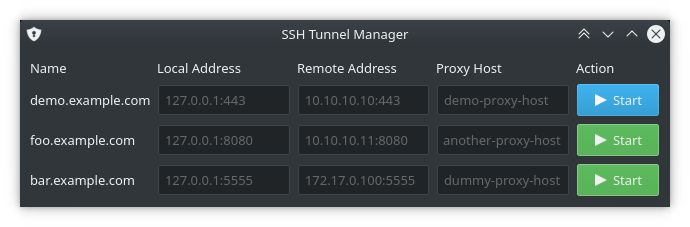
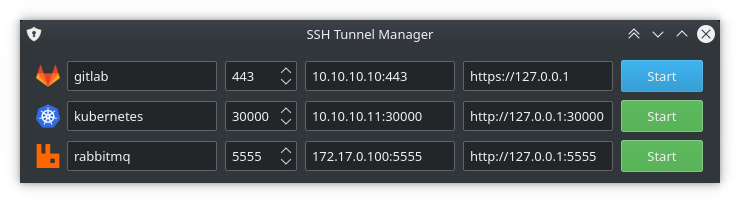
New features

Changed region(s): [[0.0304, 0.266, 0.9739, 0.9163], [0.0304, 0.0591, 0.9739, 0.2365]]

diff --git a/app.py b/app.py
@@ -6,128 +6,109 @@ __license__ = "GPLv3"
 
 from PyQt5.QtWidgets import QWidget, QLabel, QLineEdit, QPushButton, QApplication, QGridLayout
 from PyQt5.QtCore import QProcess, Qt, QUrl
-from PyQt5.QtGui import QIcon, QDesktopServices
+from PyQt5.QtGui import QIcon, QDesktopServices, QPixmap
+from PyQt5 import uic
 import sys
 import json
 
-try:
-    with open("config.json") as fp:
-        HOSTS = json.load(fp)
-except:
-    sys.stderr.write("Error loading config.json\n")
-    exit(1)
-
-class STRINGS:
+class LANG:
     TITLE = "SSH Tunnel Manager"
     START = "Start"
     STOP = "Stop"
-    
+    ADD = "Add"
+    CLOSE = "Close"
     QSS_START = "QPushButton { background-color: #5cb85c; }"
     QSS_STOP = "QPushButton { background-color: #d43f3a; }"
-    
-    LOCAL_ADDRESS = "local_address"
     REMOTE_ADDRESS = "remote_address"
+    LOCAL_PORT = "local_port"
     PROXY_HOST = "proxy_host"
     BROWSER_OPEN = "browser_open"
-    
+    ICON = "icon"
     ICON_WINDOW = "network-vpn"
     ICON_START = "kt-start"
     ICON_STOP = "kt-stop"
-    
-    SSH_PATH = "ssh"
-    
+    SSH = "ssh"
     HEADER_NAME = "Name"
     HEADER_LOCAL_ADDRESS = "Local Address"
     HEADER_REMOTE_ADDRESS = "Remote Address"
     HEADER_JUMP_HOST = "Proxy Host"
     HEADER_ACTION = "Action"
     
-class TunnelManager(QWidget):
-    
-    def __init__(self):
-        super().__init__()
-        self.initUI()
-                
-    def initUI(self):
-        self.grid = QGridLayout(self)
+class Tunnel(QWidget):
+    def __init__(self, name, data):
+        super(Tunnel, self).__init__()
+        uic.loadUi("tunnel.ui", self)
         
-        self.grid.addWidget(QLabel(STRINGS.HEADER_NAME), 0, 0)
-        self.grid.addWidget(QLabel(STRINGS.HEADER_LOCAL_ADDRESS), 0, 1)
-        self.grid.addWidget(QLabel(STRINGS.HEADER_REMOTE_ADDRESS), 0, 2)
-        self.grid.addWidget(QLabel(STRINGS.HEADER_JUMP_HOST), 0, 3)
-        self.grid.addWidget(QLabel(STRINGS.HEADER_ACTION), 0, 4)
+        self.name.setText(name)
+        self.icon.setPixmap(QPixmap("./icons/"+name))
+        self.remote_address.setText(data[LANG.REMOTE_ADDRESS])
+        self.proxy_host.setText(data[LANG.PROXY_HOST])
+        self.browser_open.setText(data[LANG.BROWSER_OPEN])
+        self.local_port.setValue(data[LANG.LOCAL_PORT])
         
-        for i, host in enumerate(HOSTS):
-            tunnel_info = HOSTS[host]
-            name = QLabel(host)
-            
-            proxy_host = QLineEdit(tunnel_info[STRINGS.PROXY_HOST])
-            proxy_host.setDisabled(True)
-            
-            remote_address = QLineEdit(tunnel_info[STRINGS.REMOTE_ADDRESS])
-            remote_address.setDisabled(True)
-            
-            local_address = QLineEdit(tunnel_info[STRINGS.LOCAL_ADDRESS])
-            local_address.setDisabled(True)
-            
-            action = QPushButton(STRINGS.START)
-            action.setStyleSheet(STRINGS.QSS_START)
-            action.setIcon(QIcon.fromTheme(STRINGS.ICON_START))
-            action.clicked.connect(self.do_tunnel)
-            
-            self.grid.addWidget(name, i+1, 0)
-            self.grid.addWidget(local_address, i+1, 1)
-            self.grid.addWidget(remote_address, i+1, 2)
-            self.grid.addWidget(proxy_host, i+1, 3)
-            self.grid.addWidget(action, i+1, 4)
-        
-        self.setLayout(self.grid)
-        self.resize(650, 100)
-        self.setWindowTitle(STRINGS.TITLE)
-        self.setWindowIcon(QIcon.fromTheme(STRINGS.ICON_WINDOW))
-        self.show()
-        
-        self.tunnels = {}
+        self.action.clicked.connect(self.do_tunnel)
+        self.action.setStyleSheet(LANG.QSS_START)
+        self.proxy_host.setHidden(True)
         
     def do_tunnel(self):
-        button = self.sender()
-        idx = self.grid.indexOf(button)
-        row, _, _, _ = self.grid.getItemPosition(idx)
+        local_port = self.local_port.value()
+        remote_address = self.remote_address.text()
+        proxy_host = self.proxy_host.text()
         
-        name = self.grid.itemAtPosition(row, 0).widget().text()
-        tunnel_info = HOSTS[name]
-        
-        local_address = tunnel_info[STRINGS.LOCAL_ADDRESS]
-        remote_address = tunnel_info[STRINGS.REMOTE_ADDRESS]
-        proxy_host = tunnel_info[STRINGS.PROXY_HOST]
-        
-        action = button.text()
-        
-        if action == STRINGS.START:
-            process = QProcess()
-            process.start(
-                STRINGS.SSH_PATH,
-                ["-L", F"{local_address}:{remote_address}", proxy_host]
-            )
-            self.tunnels[name] = process
+        if self.action.text() == LANG.START:
+            param = ["-L", F"127.0.0.1:{local_port}:{remote_address}", proxy_host]            
             
-            button.setText(STRINGS.STOP)
-            button.setStyleSheet(STRINGS.QSS_STOP)
-            button.setIcon(QIcon.fromTheme(STRINGS.ICON_STOP))
+            self.process = QProcess()
+            self.process.start(LANG.SSH, param)
             
-            url = tunnel_info.get(STRINGS.BROWSER_OPEN)
-            if url:
-                QDesktopServices.openUrl(QUrl(url))
-        elif action == STRINGS.STOP:
-            process = self.tunnels[name]
-            process.kill()
-            process.close()
-            del self.tunnels[name]
+            self.action.setText(LANG.STOP)
+            self.action.setStyleSheet(LANG.QSS_STOP)
             
-            button.setText(STRINGS.START)
-            button.setStyleSheet(STRINGS.QSS_START)
-            button.setIcon(QIcon.fromTheme(STRINGS.ICON_START))
+            if self.browser_open.text().startswith("http"):
+                QDesktopServices.openUrl(QUrl(self.browser_open.text()))
+        else:
+            self.process.kill()
+            self.process.close()
+            
+            self.action.setText(LANG.START)
+            self.action.setStyleSheet(LANG.QSS_START)
+
+class TunnelManager(QWidget):
+    def __init__(self):
+        super().__init__()
         
+        with open("config.json", "r") as fp:
+            data = json.load(fp)
+            
+        self.grid = QGridLayout(self)
+        self.tunnels = []
+        
+        for i, name in enumerate(data):
+            tunnel = Tunnel(name, data[name])
+            self.tunnels.append(tunnel)
+            self.grid.addWidget(tunnel, i, 0)
+        
+        self.setLayout(self.grid)
+        self.resize(700, 100)
+        self.setWindowTitle(LANG.TITLE)
+        self.setWindowIcon(QIcon.fromTheme(LANG.ICON_WINDOW))
+        self.show()
+        
+    #def closeEvent(self, event):
+        #data = {}
+        #for tunnel in self.tunnels:
+            #name = tunnel.name.text()
+            #data[name] = {
+                #LANG.REMOTE_ADDRESS: tunnel.remote_address.text(),
+                #LANG.PROXY_HOST: tunnel.proxy_host.text(),
+                #LANG.LOCAL_PORT: tunnel.local_port.value(),
+                #LANG.BROWSER_OPEN: tunnel.browser_open.text()
+            #}
+        #print(json.dumps(data, indent=2))
+        #with open("config.json", "w") as fp:
+            #json.dumps(data, fp)
+        #event.accept()
+    
 if __name__ == '__main__':
     app = QApplication(sys.argv)
     ex = TunnelManager()
